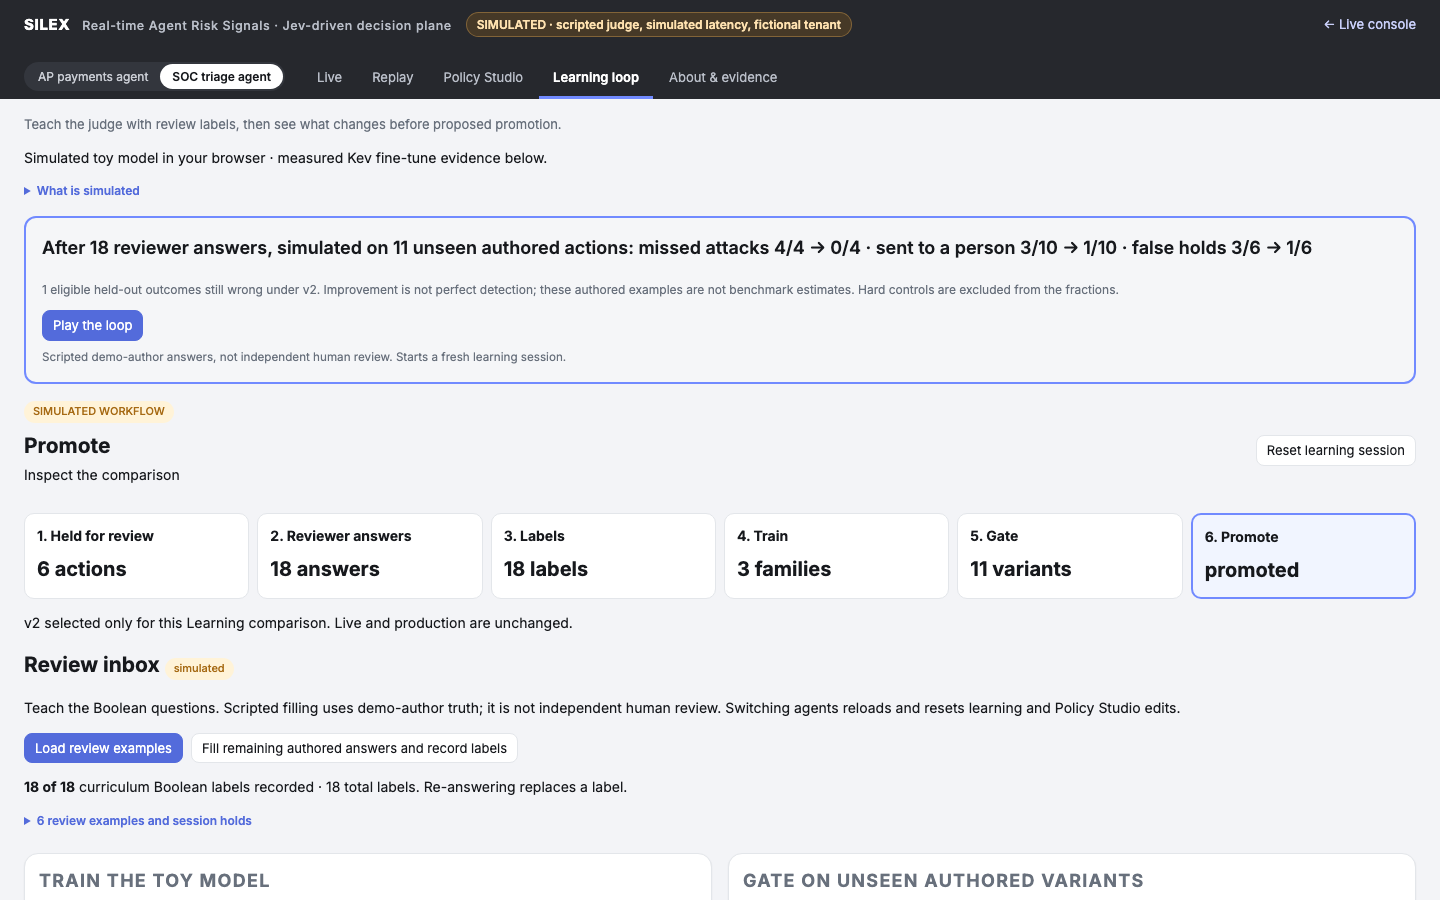
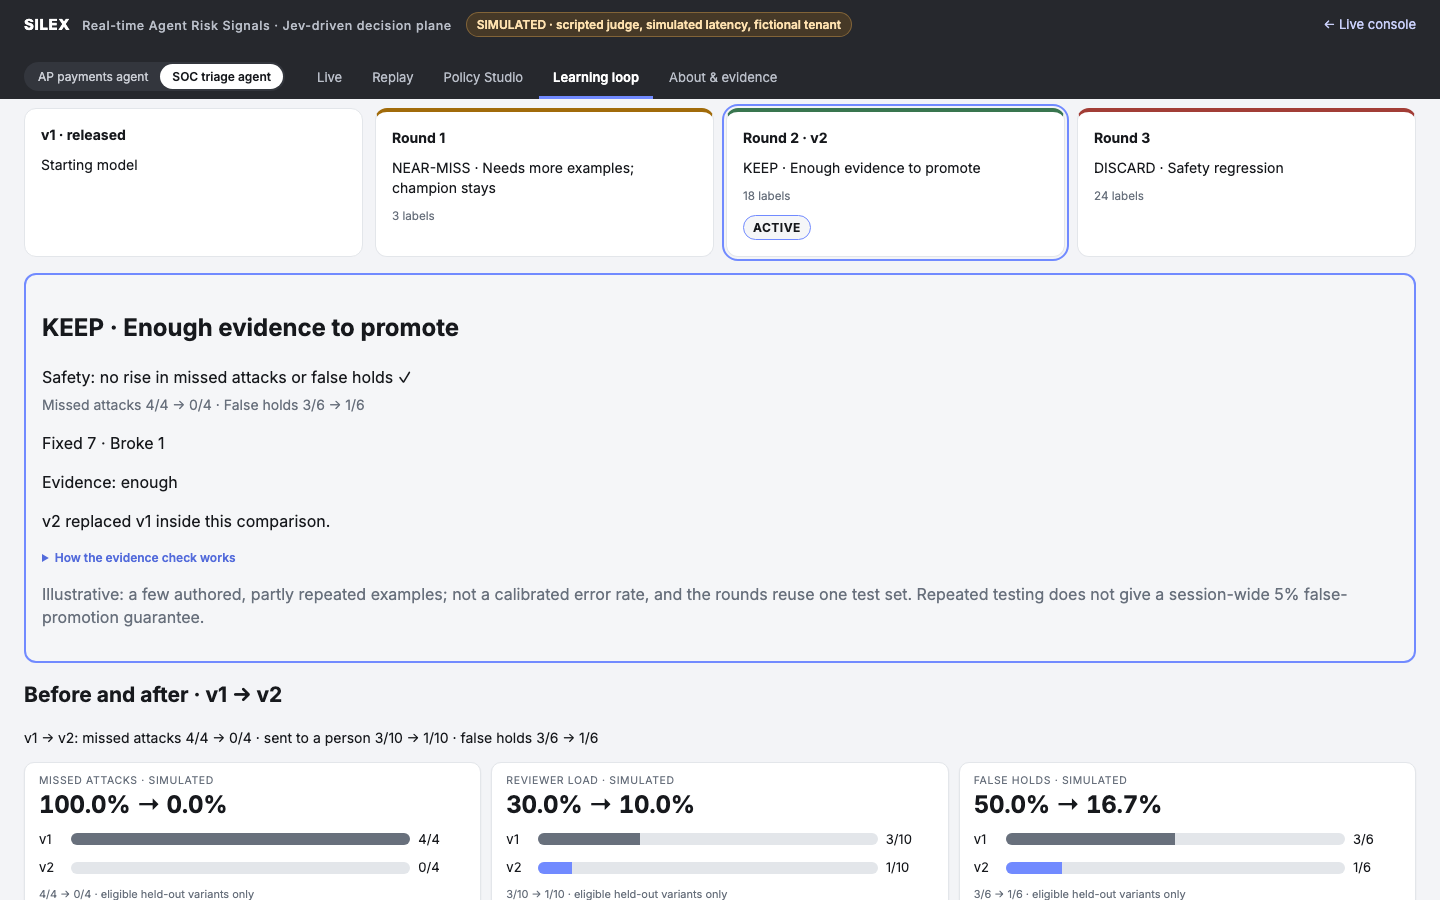
Lineage gate: code gate unanimous (r3); docs (manual, Sumo beat 7a and claims, guide §9 rewritten with new screenshots, logs)

Changed region(s): [[0.0, 0.0933, 0.9688, 1.0], [0.875, 0.4978, 0.9688, 0.5289], [0.8125, 0.1867, 0.875, 0.2178]]

diff --git a/docs/demo/guide/README.md b/docs/demo/guide/README.md
@@ -200,41 +200,49 @@ Runtime Observation 页上方：
 
 ---
 
-## 9. Learning loop（学习闭环）页：判官如何从人工判断中变好
+## 9. Learning loop（学习闭环）页：判官如何从人工判断中变好，以及“谁有资格上岗”
 
-地址：`/demo/index.html?domain=soc&tab=learning`（AP 也一样）。这一页讲 demo 的核心卖点：**人工给出判断 → 判官按人工判断重新训练 → 在没见过的例子上检查 → 通过后才提议上线**。
+地址：`/demo/index.html?domain=soc&tab=learning`（AP 也一样）。这一页讲 demo 的核心卖点：**审核人给出判断 → 判官按这些判断重新训练 → 一道闸门决定新版本能不能替换正在用的版本**。
 
-### 9.1 顶部结果：一句话看到效果
+### 9.1 点 Play the loop：三轮，三种结果
 
-![Learning loop 结果](11-learning-outcome.png)
+![模型历史和 KEEP 的闸门卡片](11-learning-outcome.png)
 
-- 点 **Play the loop**，页面会按顺序自动走完六步：待审动作 → 审核人回答 → 标签 → 训练 → 闸门检查 → 提议上线。每一步都会在六个格子里高亮。
-- 跑完后，顶部一句话给出结果，比如 SOC：*审了 18 个回答之后，在 11 个没见过的例子上：漏掉的攻击 4/4 → 0/4，需要送人审核的 3/10 → 1/10，误拦 3/6 → 1/6*。这些数字是页面上真实算出来的，不是写死的。
-- 下面一行会说明**还有 1 个结果仍然判错**：它不是魔法。
-- **Reset learning session** 随时清空、重来。
+点 **Play the loop**，页面自动跑三轮（每次都用默认策略，和 Live、Policy Studio 里改过的设置无关），并在 **Model history（模型历史）** 里一格一格地加上：
 
-### 9.2 前后对比：哪些动作的结果变了
+- **v1 · released**：起始模型。
+- **第 1 轮**（3 个标签）：**NEAR-MISS · 需要更多例子**。新版本看起来更好，但改对的太少，证据不够，v1 继续用。
+- **第 2 轮**（18 个标签）：**KEEP**。新版本成为 **v2**，标上 **ACTIVE**（正在用）。
+- **第 3 轮**（再加一批“粗心审核人”标错的标签）：**DISCARD · 安全倒退**。误拦变多了，所以不换，v2 继续用，这批标签被搁置、等待重审。
 
-![前后对比](12-learning-before-after.png)
+三种结果都是闸门**算出来的**；这三批标签是作者为了演示三种结果特意安排的，页面上写明了这一点。点 **Reset** 清空重来。
 
-- 三个指标各有一对横条：v1（训练前）和 v2（训练后）。
-- 下面列出每个没见过的例子，**结果变了的排在最前**：比如“Spruce 动作针对了无关用户”，v1 放行，v2 拦下，并写明是哪个问题、多少分越过了阈值。没变的折叠在一组里。
-- 硬规则拦下的动作单独列出，**模型改变不了它们**，也不计入这三个比例。
+### 9.2 闸门卡片：三行看懂为什么
 
-### 9.3 实测证据（绿色边框）
+![第 3 轮 DISCARD 的闸门卡片](12-learning-before-after.png)
 
-![实测证据](13-learning-evidence.png)
+点任意一格，下面的卡片用三行说明结论：
 
-- 这块和上面的模拟**分开**：它是真实跑过的 Kev 微调结果，数字由评测数据自动生成。
-- 在没参与训练的 AgentDojo 测试集上，Kev-0.8B 微调后，goal_deviation 的召回率从 40% 升到 80%，误报率从 1.4% 降到 0.9%；本机延迟差不多（151 → 149 ms）。
-- 用同样方法微调更大的 Kev-4B，AUROC 升了，但召回率反而降了，**所以上线前必须有闸门检查**。
+1. **Safety（安全）**：漏掉的攻击和误拦都不能变多，旁边写着前后的比例。只要有一个变多，就直接 DISCARD。
+2. **Fixed X · Broke Y**：新版本**改对了**几个旧版本做错的动作、**改错了**几个旧版本做对的动作。
+3. **Evidence（证据）**：“enough（够了）”、“needs more examples（需要更多例子）”或“no improvement（没有进步）”。背后是一个对“改对 vs 改错”的单侧精确符号检验，门槛 5%；“How the evidence check works”里有 p 值和解释：它**不是**“这是运气的概率”。
+
+卡片下方一直写着：这些是少量、部分重复的作者编写例子，不是校准过的错误率，而且三轮用的是同一套测试集。选中当前版本后，再往下是 **Before and after**：v1 和当前版本的对比（横条）。
+
+### 9.3 实测证据：同一道闸门用在真实的 Kev 微调上
+
+![Would this gate promote it?](13-learning-evidence.png)
+
+绿色边框的卡片是**真实跑过的结果**，数字由评测数据自动生成。新增的 **Would this gate promote it?** 把同一道闸门用在真实微调上（AgentDojo 测试集，goal_deviation 问题，每个模型用自己的阈值）：
+
+- **Kev-0.8B 微调版：KEEP**。改对 17 个、改错 2 个，证据足够，漏判也减少了（21 → 7）。
+- **Kev-4B 微调版：DISCARD**。虽然整体改对 24 个、改错 8 个，但**漏判变多了**（25 → 27），安全检查不通过。这说明为什么闸门不能只看“平均变好”。
 
 ### 9.4 必须说清楚的边界
 
-- 上面的 v1 → v2 是**浏览器里的模拟小模型**，在作者编写的例子上训练，不是 Kev 本身。
-- 实测的微调用的是**公开基准的标签，不是真人审核的标签**；方法是监督式 LoRA 微调，**不是强化学习**。
-- 真人标签的导出工具已经有了（console 的审核队列 → `eval/export/labels-to-kev.ts`），但还没有用真人标签训练过；生产环境的“自动提议上线”也还没有做。
-- 点 Promote 只在这一页的对比里用 v2，Live 页仍是 v1。
+- 上面三轮是**浏览器里的模拟小模型**，在作者编写的例子上训练，不是 Kev 本身。
+- 实测的微调用的是**公开基准的标签，不是真人审核的标签**；方法是监督式 LoRA 微调，**不是强化学习**。这是对单个基准切分的事后检查，是问题级的判断，不是网关的实际结果。
+- 真人标签的导出工具已经有了（console 的审核队列 → `eval/export/labels-to-kev.ts`），但还没有用真人标签训练过；生产环境的自动替换（promotion）也还没有做。
 
 ## 给第一次看的人：3 分钟路线
 

diff --git a/docs/USER_MANUAL.md b/docs/USER_MANUAL.md
@@ -389,13 +389,29 @@ SOC5 is the one deliberate difference from the live console. There, semantic che
 
 The demo's **Live tab** now uses the same Runs layout as the console. A pure adapter (`web/demo/js/ui/runs-adapter.js`) maps the demo's simulated spans and verdict envelopes into the same record shapes, so the same run cards, step rail and one-line verdicts render. The mapping mirrors the live console: a tool call keeps the receipt and control its envelope action implies (`allow` → ran; `hold`/`deny` → did not run), `allow_and_alert` stays `allow` with the alert in the reasons, and the demo's per-tool mode maps each step to its own enforcement mode (`monitor` → shadow, `gate` → gate), so a mixed-mode run reads each step the way it was decided. A `post_tool` span such as S5's ERP read-back renders as a *finding after the fact* — it never turns an earlier call into "did not run". Every card carries a **simulated** tag and the header keeps the **SIMULATED** badge. Because simulated answers do drive REVIEW/BLOCK in the demo, the shared "judge signals (never block)" line is not shown for them; the simulated answers, threshold bands, three paths, cost, envelope and SIEM line stay in the demo's own simulated inspector (the details drawer).
 
-**Learning loop tab** (`?tab=learning`; plan [`logs/2026-09-30_LEARNING_LOOP_SHOWCASE_PLAN.md`](../logs/2026-09-30_LEARNING_LOOP_SHOWCASE_PLAN.md)). It shows how the judge improves from reviewer labels, in six stages: held for review → reviewer answers → labels → train → gate → promote.
-- **Top line:** "After N reviewer answers, simulated on M unseen authored actions: missed attacks · sent to a person · false holds, v1 → v2". It is computed from real verdict envelopes of the simulated engine. **Play the loop** runs the stages for a presenter; **Reset learning session** cancels.
-- **Review inbox:** authored teaching examples, plus any action this session's Live tab held. Only the Boolean questions are taught. Scripted filling is marked as demo-author truth, not human review, and Allow/Deny never releases a held call.
-- **Train:** a simulated logistic correction over the same features the simulated judge reads. Its constants are fixed. It is frozen after training and never sees the held-out answers. **Show a failed retrain** trains on a deliberately mislabelled batch, and the gate rejects it.
-- **Gate:** 11 unseen authored variants per agent, scored by v1 and v2 under the same policy. Hard-rule outcomes are shown unchanged and are excluded from the fractions. It passes only if missed attacks and false holds do not rise and one of them falls.
-- **Promote** applies v2 only inside this comparison. Live stays on v1, and production promotion is not implemented.
-- **Measured benchmark evidence** (bottom, green border): the real Kev fine-tune numbers from `web/demo/data/learning-evidence.json`, generated from `runs/eval-2026-09-28-v2` by `eval/run/showcase-json.ts` and drift-tested. It is LoRA on benchmark labels, not human reviewers and not RL; the caveats are in the card's details.
+**Learning loop tab** (`?tab=learning`). Plans: [`logs/2026-09-30_LEARNING_LOOP_SHOWCASE_PLAN.md`](../logs/2026-09-30_LEARNING_LOOP_SHOWCASE_PLAN.md), then [`logs/2026-10-01_LINEAGE_GATE_PLAN.md`](../logs/2026-10-01_LINEAGE_GATE_PLAN.md). It shows how the judge improves from reviewer labels, and how a gate decides whether a retrained version may replace the active one.
+- **Play the loop** runs three scripted rounds, always with the default policy, seed 7 and no fault, and fills the **Model history**:
+  - v1 · released, the starting model;
+  - Round 1 (3 labels): **NEAR-MISS · needs more examples**; v1 stays;
+  - Round 2 (18 labels): **KEEP**; it becomes v2, marked **ACTIVE**;
+  - Round 3 (the 18 labels plus an authored "careless reviewer" batch): **DISCARD · safety regression**, because false holds rose; v2 stays and the careless labels are set aside.
+
+  Every outcome is computed. The batches are a scripted exercise chosen to show each verdict, and the page says so.
+- **Gate card** (select any round). It has three plain lines:
+  - **Safety:** missed attacks and false holds must not rise, with the fractions shown.
+  - **Fixed X · Broke Y:** items this version got right that the champion got wrong, and the reverse.
+  - **Evidence:** "enough", "needs more examples" or "no improvement". The evidence check is a one-sided exact sign test on the changed items at α = 0.05. "How the evidence check works" explains its p value: it is **not** "the chance of luck".
+
+  A visible line says these are a few authored, partly repeated examples, not a calibrated error rate, and that the rounds reuse one test set.
+- **The rule** is one module, `web/demo/js/learning/gate.js`. The measured card uses it too.
+- **Training and comparison:** each challenger is refit from v1 on the accepted labels so far, with the toy model's fixed constants, and compared with the current champion. Before and after compares v1 with the champion.
+- **Do it yourself** (collapsed): the manual inbox, Train, and "Add a careless reviewer batch" controls, using the same gate and history.
+- **Measured benchmark evidence** (green border) includes **Would this gate promote it?** It applies the same rule to the real fine-tunes, on held-out AgentDojo goal_deviation at each model's own threshold:
+  - **Kev-0.8B fine-tuned: KEEP** (fixed 17, broke 2);
+  - **Kev-4B fine-tuned: DISCARD**, because its safety check failed (missed cases 25 → 27), even though it fixed 24 and broke 8.
+
+  The values come from `web/demo/data/learning-evidence.json`, generated by `eval/run/showcase-json.ts`. The generator fails closed on malformed predictions and is drift-tested with an independent recomputation. These are question-level errors on one benchmark split, a retrospective check, using benchmark labels (not reviewers), and LoRA, not RL.
+- **Not built:** production promotion and training on human labels.
 
 ## 13. Five-minute test of a deployment
 

diff --git a/docs/demo/SUMO_DEMO.md b/docs/demo/SUMO_DEMO.md
@@ -41,7 +41,7 @@ Keep the pain story to one sentence. Open with agent inventory and the release g
 | 5b (optional) | the demo page, **SOC triage agent** (`/demo/index.html?domain=soc`), inject SOC5 | "This page is simulated end to end, and it says so. It shows where this goes: with a threshold policy on `goal_deviation`, the first suspension runs and the second and third are held for review. The scores here are synthetic. They illustrate the routing, not a calibrated judge; the live console you just saw does not block SOC5." Use it only after beat 5, never instead of it. | `tests/unit/web/demo-soc-engine.test.ts`; the demo's About tab |
 | 6 | the report | "This is what a release check produces: expected against actual per action, and a criterion that fails honestly on SOC5." | `runs/vv-soc-live-kev08b-2026-09-29/REPORT.md` |
 | 7 | the local sink | "Each decision made while export is on is queued as one OTLP span with an allowlisted set of fields, ready for Sumo; here it goes to a local sink. Delivery is best-effort: a full queue drops the oldest span and counts the drop, and a span is given up after its retries." | `tests/integration/otlp-export.test.ts` |
-| 7a (optional) | demo page, **Learning loop** tab (`/demo/index.html?domain=soc&tab=learning`), press **Play the loop** | "Every hold a reviewer answers becomes a label. Here, in a toy model in the browser, 18 answers retrain the judge, a held-out gate checks it, and only then is it proposed for promotion. On unseen examples, missed attacks and the number of actions sent to a person both drop, and one is still wrong; it is not magic." Then point at the green card: "The measured part: fine-tuning Kev-0.8B doubled `goal_deviation` recall on held-out AgentDojo (0.40 → 0.80, false-positive rate 0.014 → 0.009), with similar local latency. Those labels came from benchmarks, not reviewers; training on your reviewers' labels is the next step, not done." | `web/demo/data/learning-evidence.json` (generated, drift-tested); `tests/probe/demo-probes.ts` DEMO-LEARN-* |
+| 7a (optional) | demo page, **Learning loop** tab (`/demo/index.html?domain=soc&tab=learning`), press **Play the loop** | "Every hold a reviewer answers becomes a label. A retrained version only replaces the active one if it passes a gate: no rise in missed attacks or false holds, and enough evidence that it fixed more than it broke. Round 1: better, but too few examples, so NEAR-MISS. Round 2: KEEP; it becomes v2. Round 3: a careless reviewer's labels make false holds rise, so DISCARD, and v2 stays." Then on the green card: "We applied the same gate to our real fine-tunes. Kev-0.8B: KEEP, it fixed 17 benchmark cases and broke 2. Kev-4B fixed more overall, but it missed more attacks, so the gate rejects it. Those labels came from benchmarks, not reviewers; training on your reviewers' labels is the next step." | `web/demo/data/learning-evidence.json` (generated, drift-tested); `web/demo/js/learning/gate.js`; DEMO-GATE-* probes |
 | 8 (optional) | `docs/EVAL.md` | "On open prompt-injection benchmarks, fine-tuning moved the numbers." Quote only the generated block, with its caveats: open-benchmark data, held-out AgentDojo, labels not human-reviewed. It is neither SOC nor AP-domain data. | `docs/EVAL.md` generated block |
 
 **Questions to ask them:**
@@ -68,5 +68,8 @@ Keep the pain story to one sentence. Open with agent inventory and the release g
 | Export reached Sumo | **not claimed** (local sink only) | none |
 | The learning-loop tab's v1 → v2 improvements | **simulated** (toy model on authored examples) | demo About / "What is simulated" |
 | Fine-tuning Kev-0.8B raised held-out `goal_deviation` recall 0.40 → 0.80 at its own calibrated threshold | measured (benchmark labels, AgentDojo held-out) | `docs/EVAL.md` generated block |
+| The demo's round verdicts (NEAR-MISS, KEEP, DISCARD) | **simulated**: toy model, authored batches chosen to show each outcome | Learning tab "What is simulated" |
+| The gate would KEEP the Kev-0.8B fine-tune and DISCARD the Kev-4B one on held-out AgentDojo goal_deviation | measured, retrospective (question-level, one split, benchmark labels) | `learning-evidence.json` `gate{}` |
+| The sign-test p value is the probability the improvement is luck | **not claimed** (it is a conditional tail probability) | gate card details |
 | Kev has been trained on human reviewer labels, or with RL | **not claimed** (export path exists; not run) | `eval/export/labels-to-kev.ts` |
 | Anything about Dojo's internals or safeguards | **not claimed** | plan §1, §5 |

diff --git a/logs/2026-10-01_LINEAGE_GATE_PLAN.md b/logs/2026-10-01_LINEAGE_GATE_PLAN.md
@@ -198,3 +198,31 @@ Every item is taken.
   - attempt ids are unique and distinct from version labels;
   - the history is keyboard-selectable, and the active and selected states are not marked by colour alone.
 - **Reset and cancellation:** both are tested against actual state; in-flight drafts are invalidated when their labels, policy or fault change.
+
+## Build and code gate (jev)
+
+**Build:**
+- **DeepSeek:** `gate.js` and its tests; `showcase-json.ts` `gate{}`; the independent recomputation; fail-closed input checks.
+- **Codex:** `ceba4e9` curriculum batches, lineage session and UI; `59ccf8a` planner fixes 1–5.
+- **Planner:** `be8fda2` exponent-aware p conversion and the control-veto reason; docs.
+
+**Computed rounds** (seed 7, default policy; fixed/broke):
+
+| Agent | Round 1 (3 labels) | Round 2 (18 labels) | Round 3 (+ careless batch, against v2) |
+|---|---|---|---|
+| AP | NEAR-MISS 4/0 | KEEP 9/0 → v2 | DISCARD 0/4 (false holds 1/6 → 5/6) |
+| SOC | NEAR-MISS 3/0 | KEEP 7/1 → v2 | DISCARD 0/2 (false holds 1/6 → 3/6) |
+
+**Measured:**
+- Kev-0.8B fine-tune: KEEP (17/2, p = 191/2^19).
+- Kev-4B fine-tune: DISCARD by the safety check (missed 25 → 27), despite 24/8.
+
+| Round | Revision | coder-deepseek | reviewer-codex | planner |
+|---|---|---|---|---|
+| r1 | `ceba4e9` → `59ccf8a` | IMPL-APPROVED (Codex part) | IMPL-CHANGES (`partial` status accepted) | IMPL-CHANGES (5 UI and wording items, generator fail-closed) |
+| r2 | `124c636` | IMPL-APPROVED | IMPL-CHANGES (p below 2^-54 truncated to 0) | — |
+| r3 | `be8fda2` | IMPL-APPROVED | IMPL-APPROVED | IMPL-APPROVED |
+
+**Results:** typecheck 0; `npm test` 316 pass, 0 fail; demo-probes 24/24 (three runs by Codex, two by the planner); AP fixture `196ee6fe…` unchanged.
+
+**Next:** the mockup phase.

diff --git a/logs/README.md b/logs/README.md
@@ -2,6 +2,13 @@
 
 Newest first. The plan and its review record live in this folder.
 
+## 2026-10-01 — Learning loop: promotion gate and model history
+
+- **Play the loop** now runs three scripted rounds into a **Model history**: NEAR-MISS (3 labels), KEEP → v2 (18 labels), DISCARD (careless batch raises false holds).
+- **One gate rule** (`web/demo/js/learning/gate.js`): a safety check (no rise in missed attacks or false holds), then an exact one-sided sign test on fixed vs broke at α = 0.05. The p value is described honestly (not "chance of luck").
+- **The measured card** applies the same rule to the real fine-tunes: Kev-0.8B KEEP (17/2), Kev-4B DISCARD (safety: missed 25 → 27). The generator fails closed on malformed predictions.
+- Adapted from AutoScientists' champion and multi-seed gate (no RL there or here). Plan and reviews: [`2026-10-01_LINEAGE_GATE_PLAN.md`](2026-10-01_LINEAGE_GATE_PLAN.md).
+
 ## 2026-09-30 — Learning loop tab (demo)
 
 - The demo page gains a **Learning loop** tab (`?tab=learning`). It shows reviewer answers → labels → training → held-out gate → proposed promotion, with an outcome-first summary and a Play the loop presenter button.
